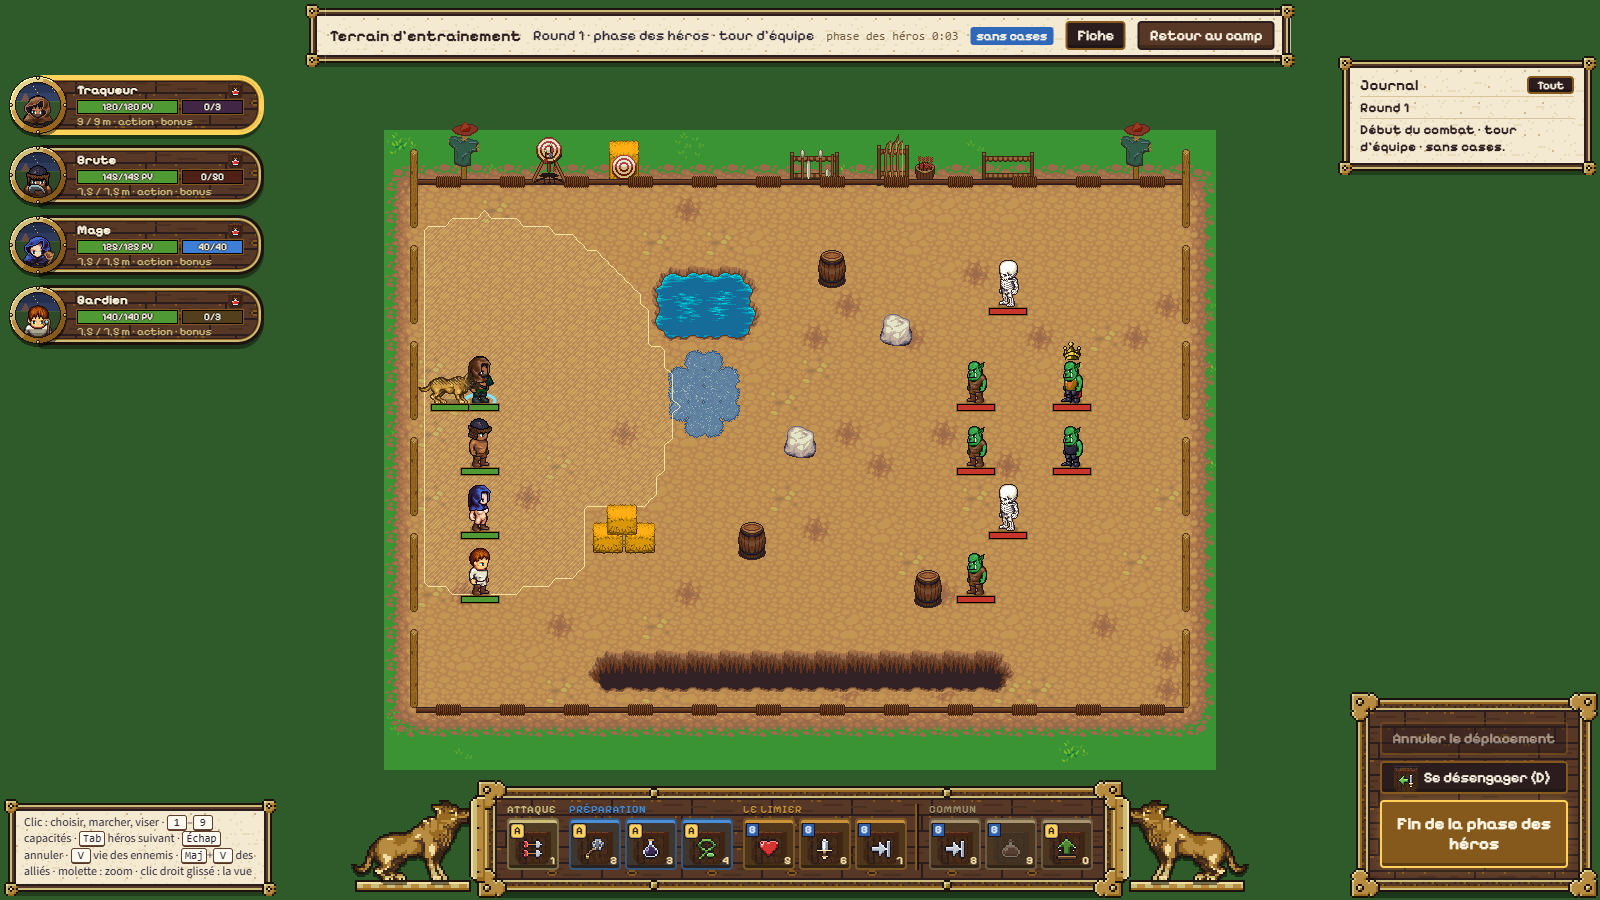
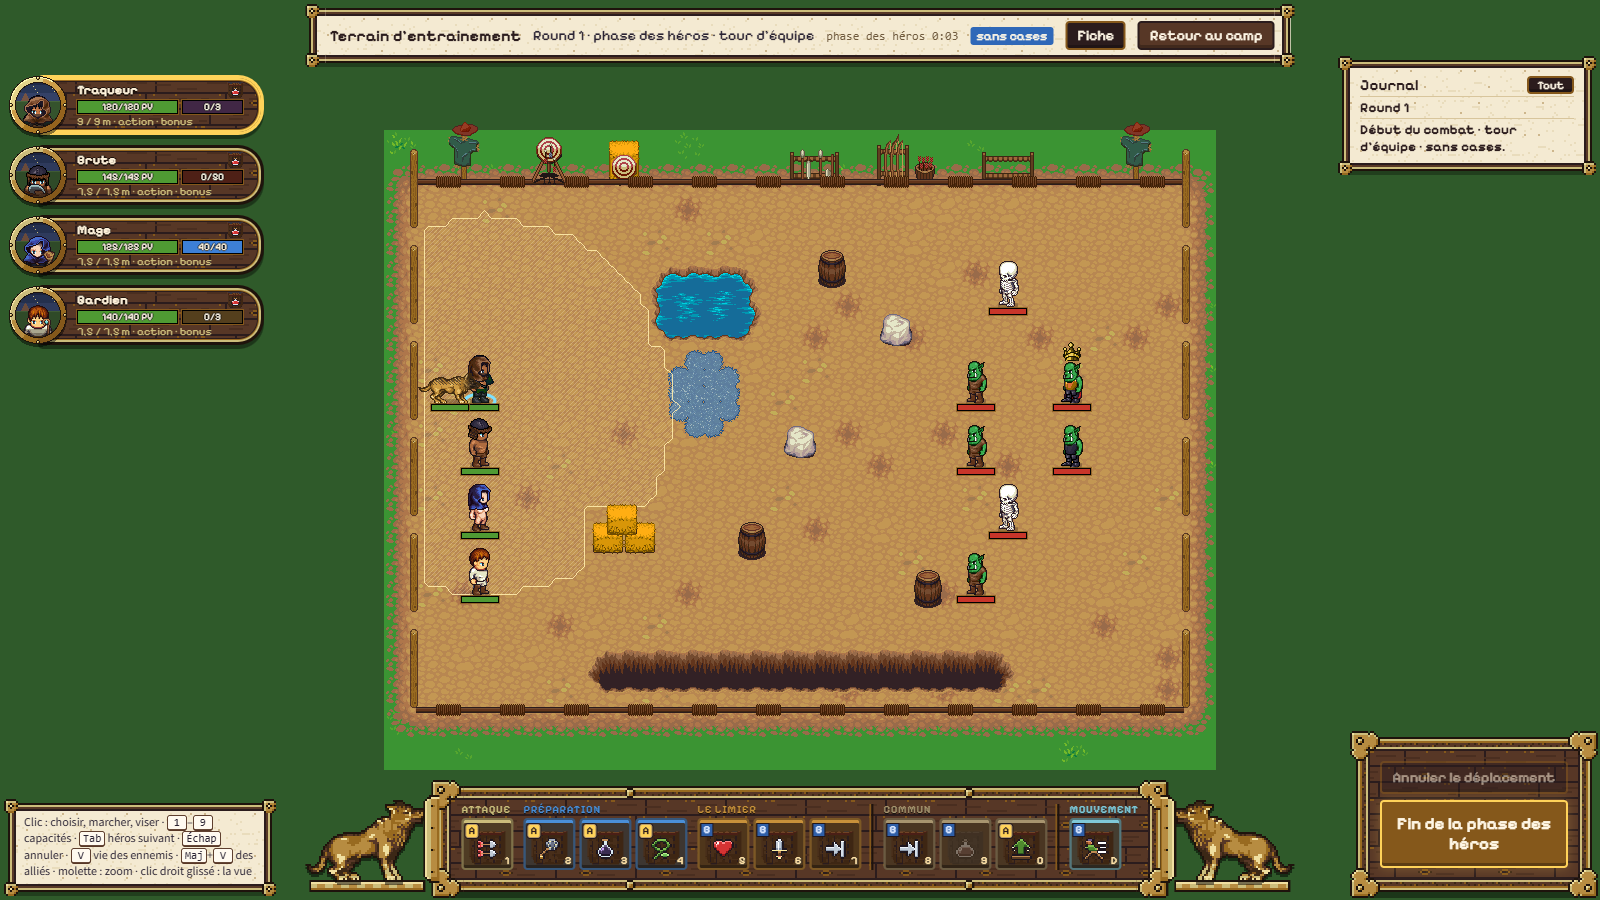
La barre des sorts : Se désengager devient la dernière catégorie, « Mouvement », avec une icône d'un héros qui se replie
Le bouton quitte le coin de la fin de phase pour une case de la barre (B, touche D, sa fiche au survol). L'icône est redessinée dans le générateur des enseignes (un héros qui court vers la gauche, trois traits de vitesse derrière lui) ; les autres icônes sortent identiques.

diff --git a/src/entrainement/interface.js b/src/entrainement/interface.js
@@ -72,8 +72,6 @@ function construire() {
   // en bas à droite : finir la phase (« Je suis prêt » à plusieurs), et annuler le dernier déplacement
   dom.coin = el('div', { class: 'coin-phase bois' },
     dom.annuler = el('button', { type: 'button', class: 'bouton-jeu discret', onclick: annuler, title: 'Annuler le dernier déplacement (sans dé)' }, 'Annuler le déplacement'),
-    // l'action commune de tous les héros (#231) : partir du contact sans attaque d'opportunité, pour son action bonus
-    dom.desengager = el('button', { type: 'button', class: 'bouton-jeu discret', id: 'desengager', onclick: () => desengager(), title: 'Action bonus : ce tour-ci, il s’éloigne sans attaque d’opportunité (touche D)' }, el('img', { class: 'bouton-icone', src: icone('desengager'), alt: '' }), 'Se désengager (D)'),
     dom.finPhase = el('button', { type: 'button', class: 'bouton-jeu', id: 'fin-phase', onclick: finPhase }, 'Fin de la phase des héros'));
   // en bas : la fiche de la capacité (choisie, ou survolée dans la barre), au-dessus de la barre des sorts
   const loupSculpte = (cote) => el('div', { class: `loup ${cote}`, 'aria-hidden': 'true' }, el('div', { class: 'loup-bois' }), el('div', { class: 'socle' }));
@@ -514,12 +512,21 @@ function dessinerTout() {
       touche ? el('kbd', {}, touche) : null);
     };
     const groupes = SORTES.map((s) => ({ ...s, ids: ordre.filter((id) => sorteDe(id, CAPACITES[id]) === s.id) })).filter((g) => g.ids.length);
+    // la dernière catégorie : le mouvement, l'action commune de tous les héros (#231) : se désengager (partir du contact sans
+    // attaque d'opportunité, pour son action bonus), sur la touche D
+    const dg = CAPACITES.desengager, okD = !vue.occupe() && utilisable(h, dg);
+    const survolD = (oui) => () => { if (oui ? ui.capSurvol !== 'desengager' : ui.capSurvol === 'desengager') { ui.capSurvol = oui ? 'desengager' : null; ui.sale = true; } };
+    dom.desengager = el('button', { type: 'button', id: 'desengager', class: `capacite bonus s-mouvement${okD ? '' : ' indispo'}`, 'aria-disabled': okD ? null : 'true',
+      'aria-label': `${dg.nom}, action bonus, touche D`, title: dg.nom, dataset: { capacite: 'desengager', sorte: 'mouvement' },
+      onclick: () => desengager(), onmouseenter: survolD(true), onmouseleave: survolD(false), onfocus: survolD(true), onblur: survolD(false) },
+    el('img', { class: 'cap-img', src: icone('desengager'), alt: '' }), el('span', { class: 'cap-slot bonus', 'aria-hidden': 'true' }, 'B'), el('kbd', {}, 'D'));
     dom.capacites.replaceChildren(...groupes.map((g) => el('div', { class: `groupe-sorts s-${g.id}`, role: 'group', 'aria-label': g.nom },
-      el('span', { class: 'groupe-nom', 'aria-hidden': 'true' }, g.nom), el('div', { class: 'cases-sorts' }, g.ids.map(caseSort)))));
+      el('span', { class: 'groupe-nom', 'aria-hidden': 'true' }, g.nom), el('div', { class: 'cases-sorts' }, g.ids.map(caseSort)))),
+      el('div', { class: 'groupe-sorts s-mouvement', role: 'group', 'aria-label': 'Mouvement' },
+        el('span', { class: 'groupe-nom', 'aria-hidden': 'true' }, 'Mouvement'), el('div', { class: 'cases-sorts' }, dom.desengager)));
   } else dom.capacites.replaceChildren(el('span', { class: 'muet' }, S.phase === 'heros' ? 'Choisis un héros.' : S.phase === 'ennemis' ? 'Les ennemis jouent…' : ''));
   dom.finPhase.disabled = S.phase !== 'heros' || vue.occupe();
   dom.annuler.disabled = !ui.annuler.length || vue.occupe();
-  { const h = herosChoisi(); dom.desengager.disabled = !h || vue.occupe() || !utilisable(h, CAPACITES.desengager); }
   dom.annuler.hidden = !!reseau;          // (à plusieurs, pas d'annulation : les autres ont peut-être déjà joué)
   dom.finPhase.classList.toggle('pret', !!reseau?.estPret());
   if (!reseau) dom.finPhase.textContent = 'Fin de la phase des héros';

diff --git a/src/entrainement/tests.js b/src/entrainement/tests.js
@@ -454,7 +454,7 @@ export async function selfTest(t, game) {
     C.deplacer(b, 9, 15.5);
     t.ok(!C.S.journal.some((l) => l.t.startsWith('Attaque d’opportunité')), 'désengagée, la Brute part sans prendre de coup');
     t.ok(!C.peutUtiliser(b, CAPACITES.desengager), 'une fois par tour');
-    t.ok(icone('desengager').endsWith('enseigne-desengager.png'), 'son icône : une flèche qui s’éloigne de l’épée');
+    t.ok(icone('desengager').endsWith('enseigne-desengager.png'), 'son icône : un héros qui se replie (Paolitus, 20 oct)');
   }
   {
     const { C, b, s } = opp();
@@ -551,13 +551,14 @@ export async function selfTest(t, game) {
   t.ok(V.marques.cibles?.includes('s1') && V.marques.cercle?.r === 6, 'la portée (9 m) et la cible à portée sont montrées');
   t.ok(!ihm.dom.ficheCap.hidden && ihm.dom.ficheCap.dataset.capacite === 'etincelle' && ihm.dom.ficheCap.textContent.includes('11–14') && ihm.dom.ficheCap.textContent.includes('d20 8–19'),
     'la fiche d’Étincelle (#85) : les dégâts d’un touché et les d20 qui y mènent, avant de viser');
-  const boutons = [...ihm.dom.capacites.querySelectorAll('.capacite')];
+  const boutons = [...ihm.dom.capacites.querySelectorAll('.capacite:not(#desengager)')];   // (les sorts de la classe ; Se désengager est à part)
   t.ok(boutons.length === HEROS.mage.capacites.length && boutons.every((b) => b.querySelector('img')?.getAttribute('src').includes('icones/enseigne-')) && boutons[0].classList.contains('choisie'),
     'la barre : chaque capacité avec son icône LPC, Étincelle choisie');
   {
     // la barre des sorts (la barre du camp) : les capacités rangées par sorte, sous le nom de leur groupe ; A ou B, le coût, la touche
     const groupes = [...ihm.dom.capacites.querySelectorAll('.groupe-sorts')].map((g) => g.querySelector('.groupe-nom').textContent);
-    t.eq(groupes, ['Attaque', 'Préparation', 'Exploitation', 'Commun'], 'la barre des sorts de la Mage : ses capacités rangées par sorte, le commun à part');
+    t.eq(groupes, ['Attaque', 'Préparation', 'Exploitation', 'Commun', 'Mouvement'], 'la barre des sorts de la Mage : ses capacités rangées par sorte, le commun à part, le mouvement en dernier');
+    t.ok(ihm.dom.desengager.closest('.s-mouvement') && ihm.dom.desengager.querySelector('kbd').textContent === 'D' && ihm.dom.desengager.querySelector('img').src.endsWith('enseigne-desengager.png'), 'Se désengager, dans la barre : sa case, son icône, la touche D');
     const foudre = ihm.dom.capacites.querySelector('[data-capacite="foudre"]');
     t.ok(foudre.dataset.sorte === 'exploitation' && foudre.querySelector('.cap-slot').textContent === 'A' && foudre.querySelector('.cap-cout').textContent === '15' && foudre.querySelector('kbd').textContent === '3',
       'Foudre : une exploitation, une action (A), 15 de Mana en coin, touche 3');

diff --git a/src/entrainement/entrainement.css b/src/entrainement/entrainement.css
@@ -95,9 +95,9 @@ kbd { display: inline-block; min-width: 1.1em; padding: 0 3px; border: 1px solid
 .barre-terrain { padding: 8px; max-width: 100%; box-sizing: border-box; }
 /* La barre des sorts (DESIGN §5) : la barre d'action du camp (BABA), ses cases de 52 px, ses rivets, ses embouts et ses loups ;
    les sorts rangés par sorte (le nom du groupe et une bande de sa couleur sur chaque case), le commun à part. */
-:root { --sorte-base: #ccbd7b; --sorte-preparation: #4a8fd8; --sorte-exploitation: #e0603a; --sorte-soutien: #5fb84a; --sorte-familier: #c8913a; --sorte-commun: #a8956f; }
+:root { --sorte-base: #ccbd7b; --sorte-preparation: #4a8fd8; --sorte-exploitation: #e0603a; --sorte-soutien: #5fb84a; --sorte-familier: #c8913a; --sorte-commun: #a8956f; --sorte-mouvement: #7fc8d8; }
 .s-base { --c: var(--sorte-base); } .s-preparation { --c: var(--sorte-preparation); } .s-exploitation { --c: var(--sorte-exploitation); }
-.s-soutien { --c: var(--sorte-soutien); } .s-familier { --c: var(--sorte-familier); } .s-commun { --c: var(--sorte-commun); }
+.s-soutien { --c: var(--sorte-soutien); } .s-familier { --c: var(--sorte-familier); } .s-commun { --c: var(--sorte-commun); } .s-mouvement { --c: var(--sorte-mouvement); }
 .socle-sorts { display: flex; align-items: flex-end; pointer-events: none; }
 .socle-sorts > * { pointer-events: auto; }
 .socle-sorts .embout { align-self: center; width: 16px; height: 88px; background: var(--embout) 0 0 / 16px 88px; image-rendering: pixelated; position: relative; z-index: 1; }
@@ -116,7 +116,7 @@ kbd { display: inline-block; min-width: 1.1em; padding: 0 3px; border: 1px solid
 .capacites > .muet { color: var(--creme-doux); padding: 18px 10px; }
 .groupe-sorts { display: flex; flex-direction: column; gap: 2px; }
 .groupe-sorts .groupe-nom { font: 700 11px/12px var(--titre); letter-spacing: .06em; text-transform: uppercase; color: var(--c); text-shadow: 0 1px 0 #000; white-space: nowrap; }
-.groupe-sorts.s-commun { padding-left: 10px; border-left: 2px solid var(--bois-nuit); box-shadow: -2px 0 0 var(--bois-clair); }
+.groupe-sorts.s-commun, .groupe-sorts.s-mouvement { padding-left: 10px; border-left: 2px solid var(--bois-nuit); box-shadow: -2px 0 0 var(--bois-clair); }
 .cases-sorts { display: flex; gap: 4px; }
 /* la case (DESIGN §5) : 52 × 52, un creux de bois ; la bande de sa sorte en haut, A ou B en haut à gauche, le coût en bas à gauche,
    la touche en bas à droite */

diff --git a/DESIGN.fr.md b/DESIGN.fr.md
@@ -87,7 +87,7 @@ Copier ces recettes ; ne pas en inventer une nouvelle sans l'ajouter ici.
 
 **Cadre d'un héros en combat** (la colonne de gauche du terrain) : le médaillon du camp en petit (le même dessin, 60 × 60, ×1 : le héros LPC devant la scène de nuit, l'anneau de laiton), et à sa droite le bandeau de bois au bout arrondi (grain du bois, liseré laiton, rayon 26 px à droite, 54 px de haut : la version compacte, 20 oct). Dans le bandeau : le nom (Pixelify 13 px, contour sombre), le joueur et la potion ; sur une même ligne, la jauge de vie (12 px, vert allié, braise sous 30 %, « PV » écrits dedans) et celle de la ressource (12 px, sa couleur de ressource ci-dessous, le vide teinté d'elle, les chiffres dedans ; le nom de la ressource au survol) ; dessous, déplacement, action, bonus et états en petit. Choisi : liseré or ; pas son tour : terni ; KO : gris.
 
-**Barre des sorts** (combat) **(proposée, à confirmer)** : la barre d'action du camp (cadre de bois, rivets, embouts de laiton, les deux loups sur leur socle quand l'écran fait plus de 1 500 px), avec une case de 52 px par capacité (la recette de la case). Dans la case : l'icône, **A** (action, or) ou **B** (bonus, bleu) en haut à gauche, le coût en bas à gauche à la couleur de la ressource, la touche en bas à droite (1 à 9, puis 0, - et =). Le nom et le détail sont dans la fiche au-dessus, au survol ou au choix. Les capacités sont rangées par sorte, chaque groupe sous son nom (Pixelify 11 px, majuscules, à sa couleur), ses cases bordées et teintées de sa couleur, une bande de sa couleur en haut ; le commun (Pousser, Potion, Relever) à part, après un filet. Couleurs des sortes : attaque `--sorte-base #ccbd7b`, préparation `--sorte-preparation #4a8fd8`, exploitation `--sorte-exploitation #e0603a`, soutien `--sorte-soutien #5fb84a`, familier `--sorte-familier #c8913a`, commun `--sorte-commun #a8956f`.
+**Barre des sorts** (combat) **(proposée, à confirmer)** : la barre d'action du camp (cadre de bois, rivets, embouts de laiton, les deux loups sur leur socle quand l'écran fait plus de 1 500 px), avec une case de 52 px par capacité (la recette de la case). Dans la case : l'icône, **A** (action, or) ou **B** (bonus, bleu) en haut à gauche, le coût en bas à gauche à la couleur de la ressource, la touche en bas à droite (1 à 9, puis 0, - et =). Le nom et le détail sont dans la fiche au-dessus, au survol ou au choix. Les capacités sont rangées par sorte, chaque groupe sous son nom (Pixelify 11 px, majuscules, à sa couleur), ses cases bordées et teintées de sa couleur, une bande de sa couleur en haut ; le commun (Pousser, Potion, Relever) à part, après un filet ; en dernier, après un filet, le mouvement (Se désengager, touche D ; son icône : un héros qui se replie). Couleurs des sortes : attaque `--sorte-base #ccbd7b`, préparation `--sorte-preparation #4a8fd8`, exploitation `--sorte-exploitation #e0603a`, soutien `--sorte-soutien #5fb84a`, familier `--sorte-familier #c8913a`, commun `--sorte-commun #a8956f`, mouvement `--sorte-mouvement #7fc8d8`.
 
 **Couleurs des ressources** (jauges de combat) : Rage `--res-rage #c8402e`, Mana `--res-mana #3d7fd6`, Concentration `--res-concentration #9a5ad6`, Foi `--res-foi #e0b04a`, Énergie `--res-energie #4fa83a`, Élan **(à confirmer)** `--res-elan #2fa79a`.
 
